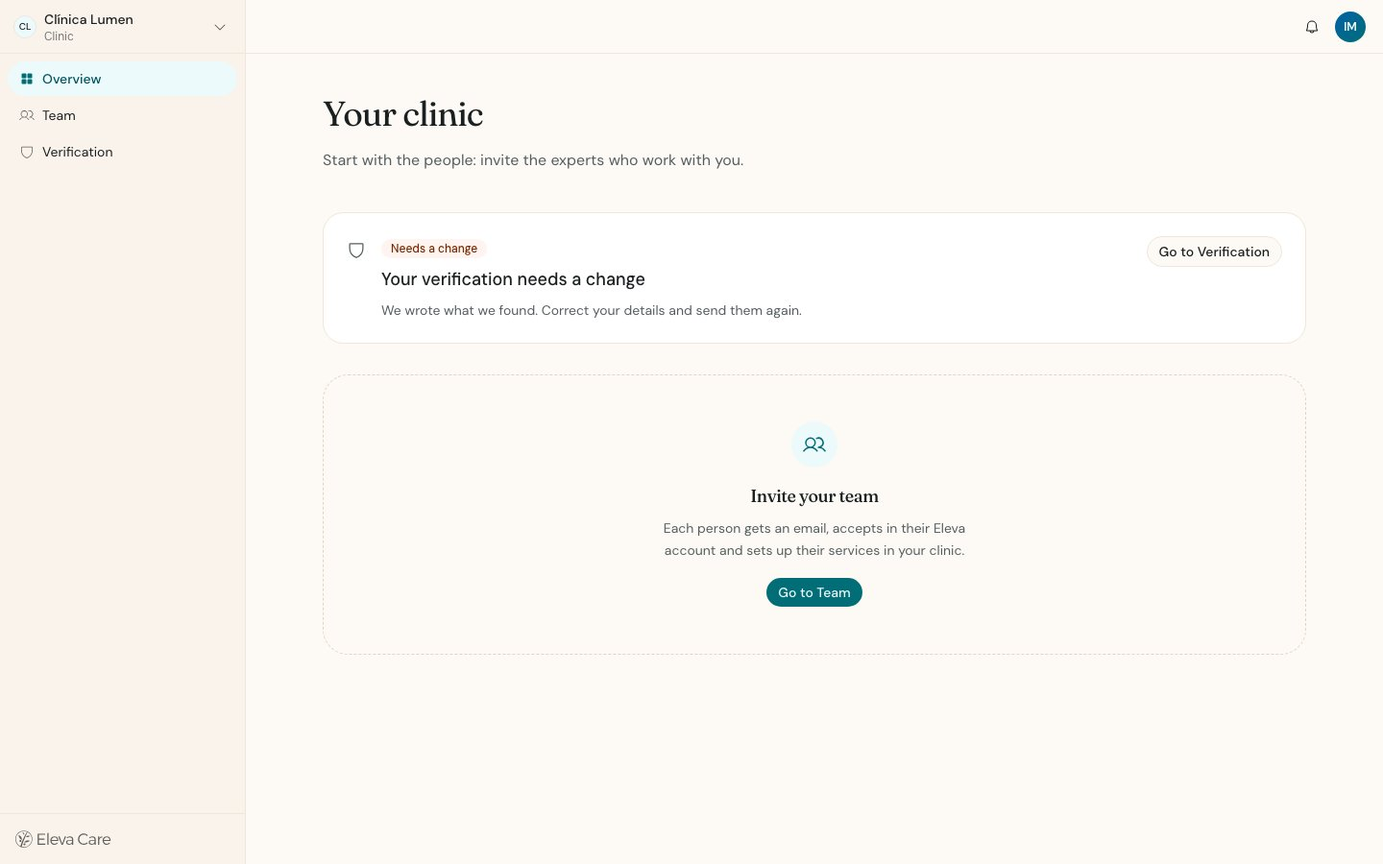
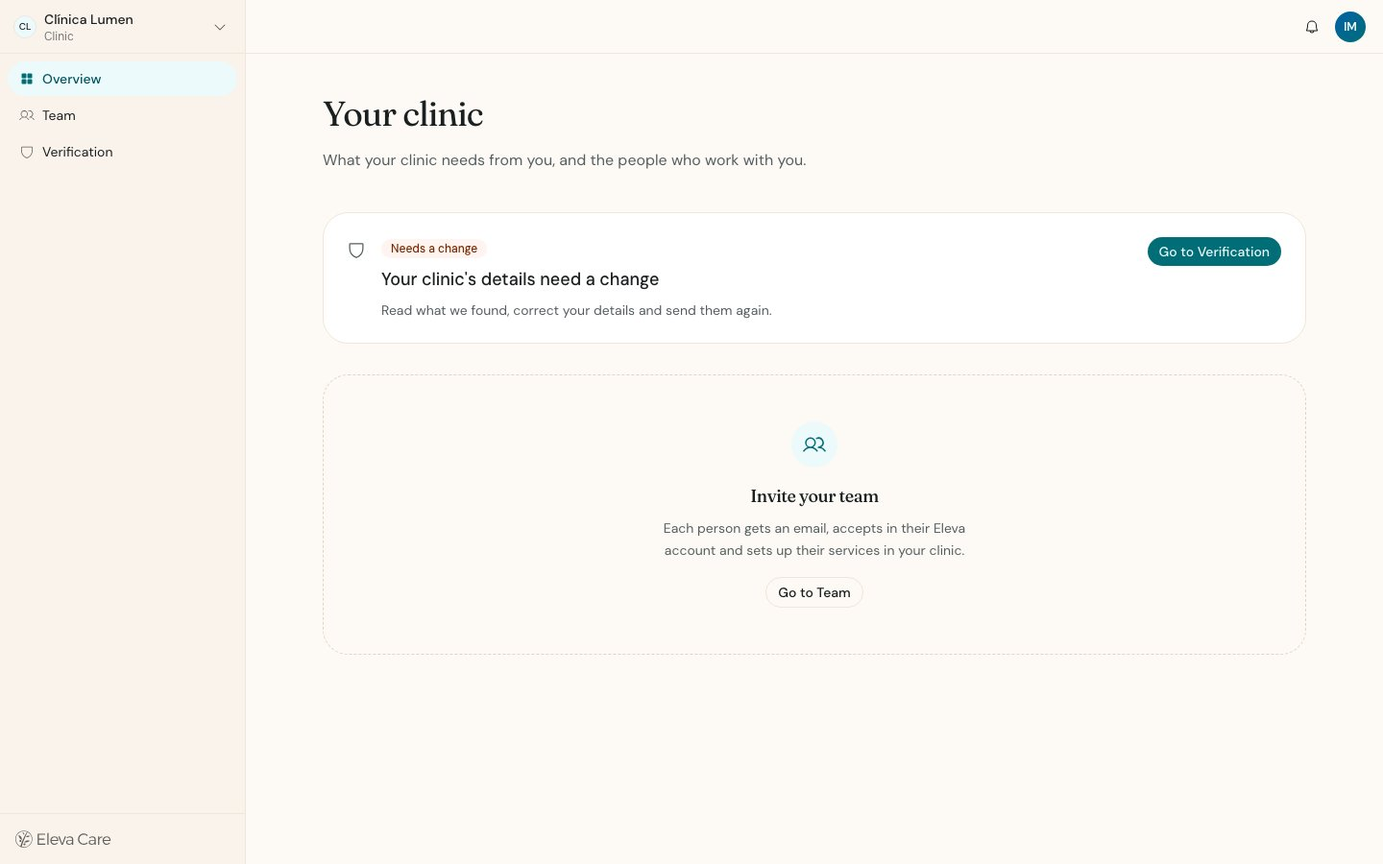
fix(p11): the Overview card leads the page; one tone per standing (11.6)
While verification waits on the clinic, its button is the main action and
Go to Team steps back. The icon stays beside the text on a phone, the
wording says what to do, and the page opens without the card if the
standing cannot be read.

diff --git a/docs/eleva-v3/design-audit/index.html b/docs/eleva-v3/design-audit/index.html
@@ -102,7 +102,7 @@ footer{padding:36px 0;color:var(--muted);font-size:.85rem}
     <div class="stat"><b>98</b><span>P2, quality</span></div>
     <div class="stat"><b>23</b><span>P3, polish</span></div>
     <div class="stat"><b>202</b><span>Mobbin references</span></div>
-    <div class="stat"><b>244</b><span>screenshots</span></div>
+    <div class="stat"><b>245</b><span>screenshots</span></div>
     <div class="stat"><b>8</b><span>videos</span></div>
   </div>
 </div></div>
@@ -3407,7 +3407,7 @@ footer{padding:36px 0;color:var(--muted);font-size:.85rem}
     <p class="counts"><span class="sev P1">0 P1</span><span class="sev P2">0 P2</span><span class="sev P3">0 P3</span><span class="pill">13 Mobbin references</span><span class="pill done">After captured</span></p>
   </header>
   <h3>Captures</h3>
-  <div class="shots"><div class="shot"><h5>Invited</h5><div class="frames"><button class="frame desktop" data-full="captures/2026-11-15-p11.1c/11-team/01-invited.desktop.jpg" data-caption="Invited · desktop · after"><img loading="lazy" src="captures/2026-11-15-p11.1c/11-team/01-invited.desktop.jpg" alt="Invited, desktop, after"><span>after</span></button><button class="frame mobile" data-full="captures/2026-11-15-p11.1c/11-team/01-invited.mobile.jpg" data-caption="Invited · mobile · after"><img loading="lazy" src="captures/2026-11-15-p11.1c/11-team/01-invited.mobile.jpg" alt="Invited, mobile, after"><span>after</span></button></div></div><div class="shot"><h5>Joined</h5><div class="frames"><button class="frame desktop" data-full="captures/2026-11-15-p11.1c/11-team/02-joined.desktop.jpg" data-caption="Joined · desktop · after"><img loading="lazy" src="captures/2026-11-15-p11.1c/11-team/02-joined.desktop.jpg" alt="Joined, desktop, after"><span>after</span></button></div></div><div class="shot"><h5>Wrong account</h5><div class="frames"><button class="frame desktop" data-full="captures/2026-11-15-p11.1c/11-team/03-wrong-account.desktop.jpg" data-caption="Wrong account · desktop · after"><img loading="lazy" src="captures/2026-11-15-p11.1c/11-team/03-wrong-account.desktop.jpg" alt="Wrong account, desktop, after"><span>after</span></button><button class="frame mobile" data-full="captures/2026-11-15-p11.1c/11-team/03-wrong-account.mobile.jpg" data-caption="Wrong account · mobile · after"><img loading="lazy" src="captures/2026-11-15-p11.1c/11-team/03-wrong-account.mobile.jpg" alt="Wrong account, mobile, after"><span>after</span></button></div></div><div class="shot"><h5>Unavailable</h5><div class="frames"><button class="frame desktop" data-full="captures/2026-11-15-p11.1c/11-team/04-unavailable.desktop.jpg" data-caption="Unavailable · desktop · after"><img loading="lazy" src="captures/2026-11-15-p11.1c/11-team/04-unavailable.desktop.jpg" alt="Unavailable, desktop, after"><span>after</span></button><button class="frame mobile" data-full="captures/2026-11-15-p11.1c/11-team/04-unavailable.mobile.jpg" data-caption="Unavailable · mobile · after"><img loading="lazy" src="captures/2026-11-15-p11.1c/11-team/04-unavailable.mobile.jpg" alt="Unavailable, mobile, after"><span>after</span></button></div></div><div class="shot"><h5>Declined</h5><div class="frames"><button class="frame mobile" data-full="captures/2026-11-15-p11.1c/11-team/05-declined.mobile.jpg" data-caption="Declined · mobile · after"><img loading="lazy" src="captures/2026-11-15-p11.1c/11-team/05-declined.mobile.jpg" alt="Declined, mobile, after"><span>after</span></button></div></div><div class="shot"><h5>Team owner only</h5><div class="frames"><button class="frame desktop" data-full="captures/2026-11-20-team-members-after/11-team/06-team-owner-only.desktop.jpg" data-caption="Team owner only · desktop · after"><img loading="lazy" src="captures/2026-11-20-team-members-after/11-team/06-team-owner-only.desktop.jpg" alt="Team owner only, desktop, after"><span>after</span></button></div></div><div class="shot"><h5>Team invite dialog</h5><div class="frames"><button class="frame desktop" data-full="captures/2026-11-20-team-members-after/11-team/07-team-invite-dialog.desktop.jpg" data-caption="Team invite dialog · desktop · after"><img loading="lazy" src="captures/2026-11-20-team-members-after/11-team/07-team-invite-dialog.desktop.jpg" alt="Team invite dialog, desktop, after"><span>after</span></button><button class="frame mobile" data-full="captures/2026-11-20-team-members-after/11-team/07-team-invite-dialog.mobile.jpg" data-caption="Team invite dialog · mobile · after"><img loading="lazy" src="captures/2026-11-20-team-members-after/11-team/07-team-invite-dialog.mobile.jpg" alt="Team invite dialog, mobile, after"><span>after</span></button></div></div><div class="shot"><h5>Team invite error</h5><div class="frames"><button class="frame desktop" data-full="captures/2026-11-20-team-members-after/11-team/07-team-invite-error.desktop.jpg" data-caption="Team invite error · desktop · after"><img loading="lazy" src="captures/2026-11-20-team-members-after/11-team/07-team-invite-error.desktop.jpg" alt="Team invite error, desktop, after"><span>after</span></button></div></div><div class="shot"><h5>Team invitation expired</h5><div class="frames"><button class="frame desktop" data-full="captures/2026-11-20-team-members-after/11-team/08-team-invitation-expired.desktop.jpg" data-caption="Team invitation expired · desktop · after"><img loading="lazy" src="captures/2026-11-20-team-members-after/11-team/08-team-invitation-expired.desktop.jpg" alt="Team invitation expired, desktop, after"><span>after</span></button><button class="frame mobile" data-full="captures/2026-11-20-team-members-after/11-team/08-team-invitation-expired.mobile.jpg" data-caption="Team invitation expired · mobile · after"><img loading="lazy" src="captures/2026-11-20-team-members-after/11-team/08-team-invitation-expired.mobile.jpg" alt="Team invitation expired, mobile, after"><span>after</span></button></div></div><div class="shot"><h5>Team invited</h5><div class="frames"><button class="frame desktop" data-full="captures/2026-11-20-team-members-after/11-team/08-team-invited.desktop.jpg" data-caption="Team invited · desktop · after"><img loading="lazy" src="captures/2026-11-20-team-members-after/11-team/08-team-invited.desktop.jpg" alt="Team invited, desktop, after"><span>after</span></button></div></div><div class="shot"><h5>Team two people</h5><div class="frames"><button class="frame desktop" data-full="captures/2026-11-20-team-members-after/11-team/09-team-two-people.desktop.jpg" data-caption="Team two people · desktop · after"><img loading="lazy" src="captures/2026-11-20-team-members-after/11-team/09-team-two-people.desktop.jpg" alt="Team two people, desktop, after"><span>after</span></button><button class="frame mobile" data-full="captures/2026-11-20-team-members-after/11-team/09-team-two-people.mobile.jpg" data-caption="Team two people · mobile · after"><img loading="lazy" src="captures/2026-11-20-team-members-after/11-team/09-team-two-people.mobile.jpg" alt="Team two people, mobile, after"><span>after</span></button></div></div><div class="shot"><h5>Team remove blocked</h5><div class="frames"><button class="frame desktop" data-full="captures/2026-11-20-team-members-after/11-team/10-team-remove-blocked.desktop.jpg" data-caption="Team remove blocked · desktop · after"><img loading="lazy" src="captures/2026-11-20-team-members-after/11-team/10-team-remove-blocked.desktop.jpg" alt="Team remove blocked, desktop, after"><span>after</span></button></div></div><div class="shot"><h5>Team remove dialog</h5><div class="frames"><button class="frame desktop" data-full="captures/2026-11-20-team-members-after/11-team/10-team-remove-dialog.desktop.jpg" data-caption="Team remove dialog · desktop · after"><img loading="lazy" src="captures/2026-11-20-team-members-after/11-team/10-team-remove-dialog.desktop.jpg" alt="Team remove dialog, desktop, after"><span>after</span></button></div></div><div class="shot"><h5>Team seats full</h5><div class="frames"><button class="frame desktop" data-full="captures/2026-11-20-team-members-after/11-team/11-team-seats-full.desktop.jpg" data-caption="Team seats full · desktop · after"><img loading="lazy" src="captures/2026-11-20-team-members-after/11-team/11-team-seats-full.desktop.jpg" alt="Team seats full, desktop, after"><span>after</span></button></div></div><div class="shot"><h5>Verification invalid number</h5><div class="frames"><button class="frame desktop" data-full="captures/2026-11-21-team-verification-after/11-team/13-verification-invalid-number.desktop.jpg" data-caption="Verification invalid number · desktop · after"><img loading="lazy" src="captures/2026-11-21-team-verification-after/11-team/13-verification-invalid-number.desktop.jpg" alt="Verification invalid number, desktop, after"><span>after</span></button></div></div><div class="shot"><h5>Verification not sent</h5><div class="frames"><button class="frame desktop" data-full="captures/2026-11-21-team-verification-after/11-team/13-verification-not-sent.desktop.jpg" data-caption="Verification not sent · desktop · after"><img loading="lazy" src="captures/2026-11-21-team-verification-after/11-team/13-verification-not-sent.desktop.jpg" alt="Verification not sent, desktop, after"><span>after</span></button></div></div><div class="shot"><h5>Verification checking</h5><div class="frames"><button class="frame desktop" data-full="captures/2026-11-21-team-verification-after/11-team/14-verification-checking.desktop.jpg" data-caption="Verification checking · desktop · after"><img loading="lazy" src="captures/2026-11-21-team-verification-after/11-team/14-verification-checking.desktop.jpg" alt="Verification checking, desktop, after"><span>after</span></button></div></div><div class="shot"><h5>Verification change needed</h5><div class="frames"><button class="frame desktop" data-full="captures/2026-11-21-team-verification-after/11-team/15-verification-change-needed.desktop.jpg" data-caption="Verification change needed · desktop · after"><img loading="lazy" src="captures/2026-11-21-team-verification-after/11-team/15-verification-change-needed.desktop.jpg" alt="Verification change needed, desktop, after"><span>after</span></button><button class="frame mobile" data-full="captures/2026-11-21-team-verification-after/11-team/15-verification-change-needed.mobile.jpg" data-caption="Verification change needed · mobile · after"><img loading="lazy" src="captures/2026-11-21-team-verification-after/11-team/15-verification-change-needed.mobile.jpg" alt="Verification change needed, mobile, after"><span>after</span></button></div></div><div class="shot"><h5>Verification verified</h5><div class="frames"><button class="frame desktop" data-full="captures/2026-11-21-team-verification-after/11-team/16-verification-verified.desktop.jpg" data-caption="Verification verified · desktop · after"><img loading="lazy" src="captures/2026-11-21-team-verification-after/11-team/16-verification-verified.desktop.jpg" alt="Verification verified, desktop, after"><span>after</span></button></div></div><div class="shot"><h5>Email 01 needs changes.en</h5><div class="frames"><button class="frame desktop" data-full="captures/2026-11-21-clinic-decision-email-after/11-team/17-email-01-needs-changes.en.desktop.jpg" data-caption="Email 01 needs changes.en · desktop · after"><img loading="lazy" src="captures/2026-11-21-clinic-decision-email-after/11-team/17-email-01-needs-changes.en.desktop.jpg" alt="Email 01 needs changes.en, desktop, after"><span>after</span></button><button class="frame mobile" data-full="captures/2026-11-21-clinic-decision-email-after/11-team/17-email-01-needs-changes.en.mobile.jpg" data-caption="Email 01 needs changes.en · mobile · after"><img loading="lazy" src="captures/2026-11-21-clinic-decision-email-after/11-team/17-email-01-needs-changes.en.mobile.jpg" alt="Email 01 needs changes.en, mobile, after"><span>after</span></button></div></div><div class="shot"><h5>Email 02 verified.pt</h5><div class="frames"><button class="frame desktop" data-full="captures/2026-11-21-clinic-decision-email-after/11-team/17-email-02-verified.pt.desktop.jpg" data-caption="Email 02 verified.pt · desktop · after"><img loading="lazy" src="captures/2026-11-21-clinic-decision-email-after/11-team/17-email-02-verified.pt.desktop.jpg" alt="Email 02 verified.pt, desktop, after"><span>after</span></button><button class="frame mobile" data-full="captures/2026-11-21-clinic-decision-email-after/11-team/17-email-02-verified.pt.mobile.jpg" data-caption="Email 02 verified.pt · mobile · after"><img loading="lazy" src="captures/2026-11-21-clinic-decision-email-after/11-team/17-email-02-verified.pt.mobile.jpg" alt="Email 02 verified.pt, mobile, after"><span>after</span></button></div></div><div class="shot"><h5>Email 03 rejected.es</h5><div class="frames"><button class="frame desktop" data-full="captures/2026-11-21-clinic-decision-email-after/11-team/17-email-03-rejected.es.desktop.jpg" data-caption="Email 03 rejected.es · desktop · after"><img loading="lazy" src="captures/2026-11-21-clinic-decision-email-after/11-team/17-email-03-rejected.es.desktop.jpg" alt="Email 03 rejected.es, desktop, after"><span>after</span></button><button class="frame mobile" data-full="captures/2026-11-21-clinic-decision-email-after/11-team/17-email-03-rejected.es.mobile.jpg" data-caption="Email 03 rejected.es · mobile · after"><img loading="lazy" src="captures/2026-11-21-clinic-decision-email-after/11-team/17-email-03-rejected.es.mobile.jpg" alt="Email 03 rejected.es, mobile, after"><span>after</span></button></div></div><div class="shot"><h5>Email 04 rejected still verified.en</h5><div class="frames"><button class="frame desktop" data-full="captures/2026-11-21-clinic-decision-email-after/11-team/17-email-04-rejected-still-verified.en.desktop.jpg" data-caption="Email 04 rejected still verified.en · desktop · after"><img loading="lazy" src="captures/2026-11-21-clinic-decision-email-after/11-team/17-email-04-rejected-still-verified.en.desktop.jpg" alt="Email 04 rejected still verified.en, desktop, after"><span>after</span></button><button class="frame mobile" data-full="captures/2026-11-21-clinic-decision-email-after/11-team/17-email-04-rejected-still-verified.en.mobile.jpg" data-caption="Email 04 rejected still verified.en · mobile · after"><img loading="lazy" src="captures/2026-11-21-clinic-decision-email-after/11-team/17-email-04-rejected-still-verified.en.mobile.jpg" alt="Email 04 rejected still verified.en, mobile, after"><span>after</span></button></div></div><div class="shot"><h5>Verification verified checking</h5><div class="frames"><button class="frame desktop" data-full="captures/2026-11-21-team-verification-after/11-team/17-verification-verified-checking.desktop.jpg" data-caption="Verification verified checking · desktop · after"><img loading="lazy" src="captures/2026-11-21-team-verification-after/11-team/17-verification-verified-checking.desktop.jpg" alt="Verification verified checking, desktop, after"><span>after</span></button></div></div><div class="shot"><h5>Verification verified new rejected</h5><div class="frames"><button class="frame desktop" data-full="captures/2026-11-21-team-verification-after/11-team/18-verification-verified-new-rejected.desktop.jpg" data-caption="Verification verified new rejected · desktop · after"><img loading="lazy" src="captures/2026-11-21-team-verification-after/11-team/18-verification-verified-new-rejected.desktop.jpg" alt="Verification verified new rejected, desktop, after"><span>after</span></button></div></div><div class="shot"><h5>Overview verification change needed</h5><div class="frames"><button class="frame desktop" data-full="captures/2026-11-21-team-verification-after/11-team/19-overview-verification-change-needed.desktop.jpg" data-caption="Overview verification change needed · desktop · after"><img loading="lazy" src="captures/2026-11-21-team-verification-after/11-team/19-overview-verification-change-needed.desktop.jpg" alt="Overview verification change needed, desktop, after"><span>after</span></button></div></div><div class="shot"><h5>Overview verification not sent</h5><div class="frames"><button class="frame desktop" data-full="captures/2026-11-21-team-verification-after/11-team/19-overview-verification-not-sent.desktop.jpg" data-caption="Overview verification not sent · desktop · after"><img loading="lazy" src="captures/2026-11-21-team-verification-after/11-team/19-overview-verification-not-sent.desktop.jpg" alt="Overview verification not sent, desktop, after"><span>after</span></button></div></div></div>
+  <div class="shots"><div class="shot"><h5>Invited</h5><div class="frames"><button class="frame desktop" data-full="captures/2026-11-15-p11.1c/11-team/01-invited.desktop.jpg" data-caption="Invited · desktop · after"><img loading="lazy" src="captures/2026-11-15-p11.1c/11-team/01-invited.desktop.jpg" alt="Invited, desktop, after"><span>after</span></button><button class="frame mobile" data-full="captures/2026-11-15-p11.1c/11-team/01-invited.mobile.jpg" data-caption="Invited · mobile · after"><img loading="lazy" src="captures/2026-11-15-p11.1c/11-team/01-invited.mobile.jpg" alt="Invited, mobile, after"><span>after</span></button></div></div><div class="shot"><h5>Joined</h5><div class="frames"><button class="frame desktop" data-full="captures/2026-11-15-p11.1c/11-team/02-joined.desktop.jpg" data-caption="Joined · desktop · after"><img loading="lazy" src="captures/2026-11-15-p11.1c/11-team/02-joined.desktop.jpg" alt="Joined, desktop, after"><span>after</span></button></div></div><div class="shot"><h5>Wrong account</h5><div class="frames"><button class="frame desktop" data-full="captures/2026-11-15-p11.1c/11-team/03-wrong-account.desktop.jpg" data-caption="Wrong account · desktop · after"><img loading="lazy" src="captures/2026-11-15-p11.1c/11-team/03-wrong-account.desktop.jpg" alt="Wrong account, desktop, after"><span>after</span></button><button class="frame mobile" data-full="captures/2026-11-15-p11.1c/11-team/03-wrong-account.mobile.jpg" data-caption="Wrong account · mobile · after"><img loading="lazy" src="captures/2026-11-15-p11.1c/11-team/03-wrong-account.mobile.jpg" alt="Wrong account, mobile, after"><span>after</span></button></div></div><div class="shot"><h5>Unavailable</h5><div class="frames"><button class="frame desktop" data-full="captures/2026-11-15-p11.1c/11-team/04-unavailable.desktop.jpg" data-caption="Unavailable · desktop · after"><img loading="lazy" src="captures/2026-11-15-p11.1c/11-team/04-unavailable.desktop.jpg" alt="Unavailable, desktop, after"><span>after</span></button><button class="frame mobile" data-full="captures/2026-11-15-p11.1c/11-team/04-unavailable.mobile.jpg" data-caption="Unavailable · mobile · after"><img loading="lazy" src="captures/2026-11-15-p11.1c/11-team/04-unavailable.mobile.jpg" alt="Unavailable, mobile, after"><span>after</span></button></div></div><div class="shot"><h5>Declined</h5><div class="frames"><button class="frame mobile" data-full="captures/2026-11-15-p11.1c/11-team/05-declined.mobile.jpg" data-caption="Declined · mobile · after"><img loading="lazy" src="captures/2026-11-15-p11.1c/11-team/05-declined.mobile.jpg" alt="Declined, mobile, after"><span>after</span></button></div></div><div class="shot"><h5>Team owner only</h5><div class="frames"><button class="frame desktop" data-full="captures/2026-11-20-team-members-after/11-team/06-team-owner-only.desktop.jpg" data-caption="Team owner only · desktop · after"><img loading="lazy" src="captures/2026-11-20-team-members-after/11-team/06-team-owner-only.desktop.jpg" alt="Team owner only, desktop, after"><span>after</span></button></div></div><div class="shot"><h5>Team invite dialog</h5><div class="frames"><button class="frame desktop" data-full="captures/2026-11-20-team-members-after/11-team/07-team-invite-dialog.desktop.jpg" data-caption="Team invite dialog · desktop · after"><img loading="lazy" src="captures/2026-11-20-team-members-after/11-team/07-team-invite-dialog.desktop.jpg" alt="Team invite dialog, desktop, after"><span>after</span></button><button class="frame mobile" data-full="captures/2026-11-20-team-members-after/11-team/07-team-invite-dialog.mobile.jpg" data-caption="Team invite dialog · mobile · after"><img loading="lazy" src="captures/2026-11-20-team-members-after/11-team/07-team-invite-dialog.mobile.jpg" alt="Team invite dialog, mobile, after"><span>after</span></button></div></div><div class="shot"><h5>Team invite error</h5><div class="frames"><button class="frame desktop" data-full="captures/2026-11-20-team-members-after/11-team/07-team-invite-error.desktop.jpg" data-caption="Team invite error · desktop · after"><img loading="lazy" src="captures/2026-11-20-team-members-after/11-team/07-team-invite-error.desktop.jpg" alt="Team invite error, desktop, after"><span>after</span></button></div></div><div class="shot"><h5>Team invitation expired</h5><div class="frames"><button class="frame desktop" data-full="captures/2026-11-20-team-members-after/11-team/08-team-invitation-expired.desktop.jpg" data-caption="Team invitation expired · desktop · after"><img loading="lazy" src="captures/2026-11-20-team-members-after/11-team/08-team-invitation-expired.desktop.jpg" alt="Team invitation expired, desktop, after"><span>after</span></button><button class="frame mobile" data-full="captures/2026-11-20-team-members-after/11-team/08-team-invitation-expired.mobile.jpg" data-caption="Team invitation expired · mobile · after"><img loading="lazy" src="captures/2026-11-20-team-members-after/11-team/08-team-invitation-expired.mobile.jpg" alt="Team invitation expired, mobile, after"><span>after</span></button></div></div><div class="shot"><h5>Team invited</h5><div class="frames"><button class="frame desktop" data-full="captures/2026-11-20-team-members-after/11-team/08-team-invited.desktop.jpg" data-caption="Team invited · desktop · after"><img loading="lazy" src="captures/2026-11-20-team-members-after/11-team/08-team-invited.desktop.jpg" alt="Team invited, desktop, after"><span>after</span></button></div></div><div class="shot"><h5>Team two people</h5><div class="frames"><button class="frame desktop" data-full="captures/2026-11-20-team-members-after/11-team/09-team-two-people.desktop.jpg" data-caption="Team two people · desktop · after"><img loading="lazy" src="captures/2026-11-20-team-members-after/11-team/09-team-two-people.desktop.jpg" alt="Team two people, desktop, after"><span>after</span></button><button class="frame mobile" data-full="captures/2026-11-20-team-members-after/11-team/09-team-two-people.mobile.jpg" data-caption="Team two people · mobile · after"><img loading="lazy" src="captures/2026-11-20-team-members-after/11-team/09-team-two-people.mobile.jpg" alt="Team two people, mobile, after"><span>after</span></button></div></div><div class="shot"><h5>Team remove blocked</h5><div class="frames"><button class="frame desktop" data-full="captures/2026-11-20-team-members-after/11-team/10-team-remove-blocked.desktop.jpg" data-caption="Team remove blocked · desktop · after"><img loading="lazy" src="captures/2026-11-20-team-members-after/11-team/10-team-remove-blocked.desktop.jpg" alt="Team remove blocked, desktop, after"><span>after</span></button></div></div><div class="shot"><h5>Team remove dialog</h5><div class="frames"><button class="frame desktop" data-full="captures/2026-11-20-team-members-after/11-team/10-team-remove-dialog.desktop.jpg" data-caption="Team remove dialog · desktop · after"><img loading="lazy" src="captures/2026-11-20-team-members-after/11-team/10-team-remove-dialog.desktop.jpg" alt="Team remove dialog, desktop, after"><span>after</span></button></div></div><div class="shot"><h5>Team seats full</h5><div class="frames"><button class="frame desktop" data-full="captures/2026-11-20-team-members-after/11-team/11-team-seats-full.desktop.jpg" data-caption="Team seats full · desktop · after"><img loading="lazy" src="captures/2026-11-20-team-members-after/11-team/11-team-seats-full.desktop.jpg" alt="Team seats full, desktop, after"><span>after</span></button></div></div><div class="shot"><h5>Verification invalid number</h5><div class="frames"><button class="frame desktop" data-full="captures/2026-11-21-team-verification-after/11-team/13-verification-invalid-number.desktop.jpg" data-caption="Verification invalid number · desktop · after"><img loading="lazy" src="captures/2026-11-21-team-verification-after/11-team/13-verification-invalid-number.desktop.jpg" alt="Verification invalid number, desktop, after"><span>after</span></button></div></div><div class="shot"><h5>Verification not sent</h5><div class="frames"><button class="frame desktop" data-full="captures/2026-11-21-team-verification-after/11-team/13-verification-not-sent.desktop.jpg" data-caption="Verification not sent · desktop · after"><img loading="lazy" src="captures/2026-11-21-team-verification-after/11-team/13-verification-not-sent.desktop.jpg" alt="Verification not sent, desktop, after"><span>after</span></button></div></div><div class="shot"><h5>Verification checking</h5><div class="frames"><button class="frame desktop" data-full="captures/2026-11-21-team-verification-after/11-team/14-verification-checking.desktop.jpg" data-caption="Verification checking · desktop · after"><img loading="lazy" src="captures/2026-11-21-team-verification-after/11-team/14-verification-checking.desktop.jpg" alt="Verification checking, desktop, after"><span>after</span></button></div></div><div class="shot"><h5>Verification change needed</h5><div class="frames"><button class="frame desktop" data-full="captures/2026-11-21-team-verification-after/11-team/15-verification-change-needed.desktop.jpg" data-caption="Verification change needed · desktop · after"><img loading="lazy" src="captures/2026-11-21-team-verification-after/11-team/15-verification-change-needed.desktop.jpg" alt="Verification change needed, desktop, after"><span>after</span></button><button class="frame mobile" data-full="captures/2026-11-21-team-verification-after/11-team/15-verification-change-needed.mobile.jpg" data-caption="Verification change needed · mobile · after"><img loading="lazy" src="captures/2026-11-21-team-verification-after/11-team/15-verification-change-needed.mobile.jpg" alt="Verification change needed, mobile, after"><span>after</span></button></div></div><div class="shot"><h5>Verification verified</h5><div class="frames"><button class="frame desktop" data-full="captures/2026-11-21-team-verification-after/11-team/16-verification-verified.desktop.jpg" data-caption="Verification verified · desktop · after"><img loading="lazy" src="captures/2026-11-21-team-verification-after/11-team/16-verification-verified.desktop.jpg" alt="Verification verified, desktop, after"><span>after</span></button></div></div><div class="shot"><h5>Email 01 needs changes.en</h5><div class="frames"><button class="frame desktop" data-full="captures/2026-11-21-clinic-decision-email-after/11-team/17-email-01-needs-changes.en.desktop.jpg" data-caption="Email 01 needs changes.en · desktop · after"><img loading="lazy" src="captures/2026-11-21-clinic-decision-email-after/11-team/17-email-01-needs-changes.en.desktop.jpg" alt="Email 01 needs changes.en, desktop, after"><span>after</span></button><button class="frame mobile" data-full="captures/2026-11-21-clinic-decision-email-after/11-team/17-email-01-needs-changes.en.mobile.jpg" data-caption="Email 01 needs changes.en · mobile · after"><img loading="lazy" src="captures/2026-11-21-clinic-decision-email-after/11-team/17-email-01-needs-changes.en.mobile.jpg" alt="Email 01 needs changes.en, mobile, after"><span>after</span></button></div></div><div class="shot"><h5>Email 02 verified.pt</h5><div class="frames"><button class="frame desktop" data-full="captures/2026-11-21-clinic-decision-email-after/11-team/17-email-02-verified.pt.desktop.jpg" data-caption="Email 02 verified.pt · desktop · after"><img loading="lazy" src="captures/2026-11-21-clinic-decision-email-after/11-team/17-email-02-verified.pt.desktop.jpg" alt="Email 02 verified.pt, desktop, after"><span>after</span></button><button class="frame mobile" data-full="captures/2026-11-21-clinic-decision-email-after/11-team/17-email-02-verified.pt.mobile.jpg" data-caption="Email 02 verified.pt · mobile · after"><img loading="lazy" src="captures/2026-11-21-clinic-decision-email-after/11-team/17-email-02-verified.pt.mobile.jpg" alt="Email 02 verified.pt, mobile, after"><span>after</span></button></div></div><div class="shot"><h5>Email 03 rejected.es</h5><div class="frames"><button class="frame desktop" data-full="captures/2026-11-21-clinic-decision-email-after/11-team/17-email-03-rejected.es.desktop.jpg" data-caption="Email 03 rejected.es · desktop · after"><img loading="lazy" src="captures/2026-11-21-clinic-decision-email-after/11-team/17-email-03-rejected.es.desktop.jpg" alt="Email 03 rejected.es, desktop, after"><span>after</span></button><button class="frame mobile" data-full="captures/2026-11-21-clinic-decision-email-after/11-team/17-email-03-rejected.es.mobile.jpg" data-caption="Email 03 rejected.es · mobile · after"><img loading="lazy" src="captures/2026-11-21-clinic-decision-email-after/11-team/17-email-03-rejected.es.mobile.jpg" alt="Email 03 rejected.es, mobile, after"><span>after</span></button></div></div><div class="shot"><h5>Email 04 rejected still verified.en</h5><div class="frames"><button class="frame desktop" data-full="captures/2026-11-21-clinic-decision-email-after/11-team/17-email-04-rejected-still-verified.en.desktop.jpg" data-caption="Email 04 rejected still verified.en · desktop · after"><img loading="lazy" src="captures/2026-11-21-clinic-decision-email-after/11-team/17-email-04-rejected-still-verified.en.desktop.jpg" alt="Email 04 rejected still verified.en, desktop, after"><span>after</span></button><button class="frame mobile" data-full="captures/2026-11-21-clinic-decision-email-after/11-team/17-email-04-rejected-still-verified.en.mobile.jpg" data-caption="Email 04 rejected still verified.en · mobile · after"><img loading="lazy" src="captures/2026-11-21-clinic-decision-email-after/11-team/17-email-04-rejected-still-verified.en.mobile.jpg" alt="Email 04 rejected still verified.en, mobile, after"><span>after</span></button></div></div><div class="shot"><h5>Verification verified checking</h5><div class="frames"><button class="frame desktop" data-full="captures/2026-11-21-team-verification-after/11-team/17-verification-verified-checking.desktop.jpg" data-caption="Verification verified checking · desktop · after"><img loading="lazy" src="captures/2026-11-21-team-verification-after/11-team/17-verification-verified-checking.desktop.jpg" alt="Verification verified checking, desktop, after"><span>after</span></button></div></div><div class="shot"><h5>Verification verified new rejected</h5><div class="frames"><button class="frame desktop" data-full="captures/2026-11-21-team-verification-after/11-team/18-verification-verified-new-rejected.desktop.jpg" data-caption="Verification verified new rejected · desktop · after"><img loading="lazy" src="captures/2026-11-21-team-verification-after/11-team/18-verification-verified-new-rejected.desktop.jpg" alt="Verification verified new rejected, desktop, after"><span>after</span></button></div></div><div class="shot"><h5>Overview verification change needed</h5><div class="frames"><button class="frame desktop" data-full="captures/2026-11-21-team-verification-after/11-team/19-overview-verification-change-needed.desktop.jpg" data-caption="Overview verification change needed · desktop · after"><img loading="lazy" src="captures/2026-11-21-team-verification-after/11-team/19-overview-verification-change-needed.desktop.jpg" alt="Overview verification change needed, desktop, after"><span>after</span></button><button class="frame mobile" data-full="captures/2026-11-21-team-verification-after/11-team/19-overview-verification-change-needed.mobile.jpg" data-caption="Overview verification change needed · mobile · after"><img loading="lazy" src="captures/2026-11-21-team-verification-after/11-team/19-overview-verification-change-needed.mobile.jpg" alt="Overview verification change needed, mobile, after"><span>after</span></button></div></div><div class="shot"><h5>Overview verification not sent</h5><div class="frames"><button class="frame desktop" data-full="captures/2026-11-21-team-verification-after/11-team/19-overview-verification-not-sent.desktop.jpg" data-caption="Overview verification not sent · desktop · after"><img loading="lazy" src="captures/2026-11-21-team-verification-after/11-team/19-overview-verification-not-sent.desktop.jpg" alt="Overview verification not sent, desktop, after"><span>after</span></button></div></div></div>
   <h3>Keep</h3>
   <ul class="keep"></ul>
   <h3>Findings</h3>

diff --git a/apps/team/src/app/team/[orgSlug]/page.tsx b/apps/team/src/app/team/[orgSlug]/page.tsx
@@ -3,6 +3,7 @@ import { getClinicSummary } from "@eleva/auth"
 import { resolveTeamWorkspaceBase } from "@eleva/auth/org-routing"
 import { getSessionForOrg } from "@eleva/auth/server"
 import {
+  CLINIC_STANDING_TONES,
   clinicStanding,
   type ClinicStanding,
 } from "@eleva/config/clinic-verification"
@@ -42,48 +43,56 @@ export default async function TeamAdminDashboardPage({
     getTranslations("verification"),
   ])
   const base = resolveTeamWorkspaceBase(orgSlug)
-  // Only the people who can act on it (clinic:manage) are told.
+  // Only the people who can act on it (clinic:manage) are told. If the
+  // standing cannot be read, the Overview still opens, without the card.
   const summary =
     session && session.capabilities.includes("clinic:manage")
-      ? await getClinicSummary(session.orgId, session.user.id)
+      ? await getClinicSummary(session.orgId, session.user.id).catch(
+          (err: unknown) => {
+            console.error("[team] overview could not read verification", err)
+            return null
+          }
+        )
       : null
   const standing = summary
     ? clinicStanding(summary.verified, summary.verification?.status ?? null)
     : null
+  const notice = standing && needsTheClinic(standing) ? standing : null
 
   return (
     <div className="mx-auto max-w-5xl space-y-8">
       <PageHeader title={t("title")} description={t("subtitle")} />
-      {standing && needsTheClinic(standing) ? (
+      {notice ? (
         <section
           aria-labelledby="overview-verification-title"
-          className="flex flex-wrap items-start gap-4 rounded-2xl border bg-card p-6"
+          className="flex flex-wrap items-start gap-4 rounded-3xl border bg-card p-6"
           data-testid="overview-verification"
-          data-standing={standing}
+          data-standing={notice}
         >
-          <ShieldIcon
-            aria-hidden
-            className="mt-1 size-5 shrink-0 text-muted-foreground"
-          />
-          <div className="min-w-0 flex-1 basis-64 space-y-2">
-            <StatusPill
-              tone={standing.startsWith("verified") ? "positive" : "attention"}
-            >
-              {tVerification(`standing.${standing}.pill`)}
-            </StatusPill>
-            <h2
-              id="overview-verification-title"
-              className="text-lg font-medium text-foreground"
-            >
-              {t(`verification.${standing}.title`)}
-            </h2>
-            <p className="max-w-prose text-sm text-muted-foreground">
-              {t(`verification.${standing}.body`)}
-            </p>
+          {/* Icon and text stay together; only the button wraps under them. */}
+          <div className="flex min-w-0 flex-1 basis-64 items-start gap-4">
+            <ShieldIcon
+              aria-hidden
+              className="mt-1 size-5 shrink-0 text-muted-foreground"
+            />
+            <div className="min-w-0 space-y-2">
+              <StatusPill tone={CLINIC_STANDING_TONES[notice]}>
+                {tVerification(`standing.${notice}.pill`)}
+              </StatusPill>
+              <h2
+                id="overview-verification-title"
+                className="text-lg font-medium text-foreground"
+              >
+                {t(`verification.${notice}.title`)}
+              </h2>
+              <p className="max-w-prose text-sm text-muted-foreground">
+                {t(`verification.${notice}.body`)}
+              </p>
+            </div>
           </div>
+          {/* What waits on the clinic is the page's main action. */}
           <LinkButton
             href={`${base}/verification`}
-            variant="outline"
             size="sm"
             className="max-sm:w-full"
           >
@@ -96,7 +105,11 @@ export default async function TeamAdminDashboardPage({
         title={t("emptyTitle")}
         description={t("emptyBody")}
         action={
-          <LinkButton href={`${base}/members`} size="sm">
+          <LinkButton
+            href={`${base}/members`}
+            size="sm"
+            variant={notice ? "outline" : "default"}
+          >
             {t("openTeam")}
           </LinkButton>
         }

diff --git a/apps/team/src/app/team/[orgSlug]/verification/page.tsx b/apps/team/src/app/team/[orgSlug]/verification/page.tsx
@@ -3,23 +3,12 @@ import { getFormatter, getTranslations } from "next-intl/server"
 import { getClinicSummary } from "@eleva/auth"
 import { getSessionForOrg } from "@eleva/auth/server"
 import {
+  CLINIC_STANDING_TONES,
   clinicStanding,
-  type ClinicStanding,
 } from "@eleva/config/clinic-verification"
 import { PageHeader } from "@eleva/ui/components/page-header"
-import { StatusPill, type StatusTone } from "@eleva/ui/components/status-pill"
+import { StatusPill } from "@eleva/ui/components/status-pill"
 import { VerificationForm } from "./verification-form"
-
-const TONES: Record<ClinicStanding, StatusTone> = {
-  "not-sent": "neutral",
-  checking: "attention",
-  "change-needed": "attention",
-  verified: "positive",
-  "verified-checking": "positive",
-  "verified-change-needed": "positive",
-  "verified-new-rejected": "positive",
-  "not-verified": "neutral",
-}
 
 /** The standing's title: focus lands here after details are sent. */
 const STANDING_TITLE_ID = "verification-standing-title"
@@ -72,7 +61,7 @@ export default async function TeamVerificationPage({
           data-testid="verification-standing"
           data-standing={standing}
         >
-          <StatusPill tone={TONES[standing]}>
+          <StatusPill tone={CLINIC_STANDING_TONES[standing]}>
             {t(`standing.${standing}.pill`)}
           </StatusPill>
           <div className="space-y-2">

diff --git a/e2e/team-verification.spec.ts b/e2e/team-verification.spec.ts
@@ -194,9 +194,18 @@ test.describe("Phase 11.4 — the clinic's Verification page", () => {
     await expect(notice).toHaveAttribute("data-standing", "change-needed", {
       timeout: 60_000,
     })
-    await expect(notice).toContainText("Your verification needs a change")
+    await expect(notice).toContainText("Your clinic's details need a change")
     await shot(overview, "19-overview-verification-change-needed.desktop")
     await overview.context().close()
+    // On a phone the icon stays beside the text and the button goes under.
+    const overviewPhone = await pageWithSession(browser, cookie, true)
+    await overviewPhone.setViewportSize({ width: 360, height: 780 })
+    await overviewPhone.goto(overviewUrl)
+    await expect(
+      overviewPhone.getByTestId("overview-verification")
+    ).toHaveAttribute("data-standing", "change-needed", { timeout: 60_000 })
+    await shot(overviewPhone, "19-overview-verification-change-needed.mobile")
+    await overviewPhone.context().close()
 
     const phone = await pageWithSession(browser, cookie, true)
     await phone.goto(url)

diff --git a/packages/config/src/clinic-verification.ts b/packages/config/src/clinic-verification.ts
@@ -72,3 +72,23 @@ export function clinicStanding(
   if (status === "rejected") return "not-verified"
   return "not-sent"
 }
+
+/**
+ * How each standing is shown, wherever it is shown (the Verification page,
+ * the Overview card): "positive" once verified, "attention" while Eleva or
+ * the clinic has a step open, "neutral" otherwise. The names are the
+ * `StatusPill` tones of `@eleva/ui`.
+ */
+export const CLINIC_STANDING_TONES = {
+  "not-sent": "neutral",
+  checking: "attention",
+  "change-needed": "attention",
+  verified: "positive",
+  "verified-checking": "positive",
+  "verified-change-needed": "positive",
+  "verified-new-rejected": "positive",
+  "not-verified": "neutral",
+} as const satisfies Record<
+  ClinicStanding,
+  "neutral" | "attention" | "positive"
+>

diff --git a/docs/eleva-v3/decision-log.md b/docs/eleva-v3/decision-log.md
@@ -49,11 +49,23 @@ Each entry should include:
 - Proof: `e2e/team-verification.spec.ts` (opt-in, loopback, run
   2026-11-21): the card shows for not sent, is gone while checking, and
   shows again when a change is asked; its button opens Verification.
-  Captures `19-overview-verification-*` in
+  Captures `19-overview-verification-*` (desktop, and 360px wide) in
   `design-audit/captures/2026-11-21-team-verification-after/11-team/`.
-- Not scored by the judges panel.
-- Not in this slice: the same card on a phone-width capture; a count on
-  the navigation item; a notice for clinicians.
+- While the card shows, its button is the page's main action and "Go to
+  Team" steps back to an outline; the page subtitle no longer says to
+  start with the people. One tone per standing, shared with the
+  Verification page (`CLINIC_STANDING_TONES`). If the standing cannot be
+  read, the Overview opens without the card.
+- Stated limits: the Overview reads the clinic's whole filing to work out
+  the standing (legal name and number included, never sent to the page),
+  where a narrower read would do; and, as on the Verification page,
+  opening it can create a missing clinic profile row (audited).
+- Judges, first round: UI 7.3, UX and writing 7.1, compliance and
+  accessibility 8.1. The must-fix items were applied (button weight, the
+  phone layout, the subtitle and the change-needed wording); not scored
+  again.
+- Not in this slice: captures of the three other standings and of pt and
+  es; a count on the navigation item; a notice for clinicians.
 - Owner: engineering
 
 ### 2026-11-21: Staff opening a clinic's filing is on record (12.2) (active)
